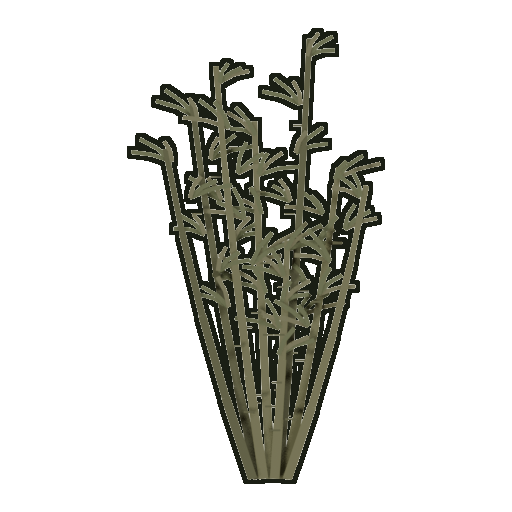
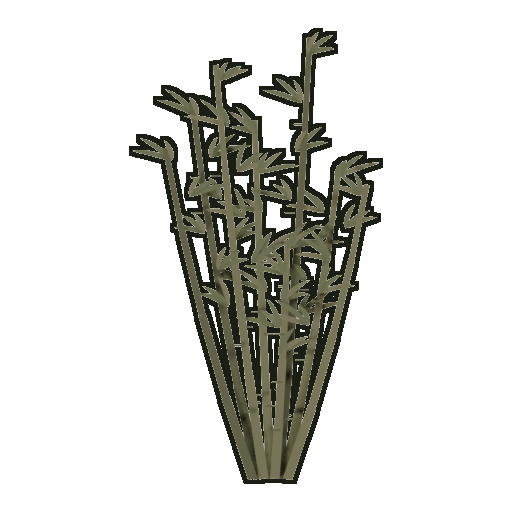
Rebuild the last of the box-built vegetation
Continuing the asset-consistency thread. `_blade` was still laying down `_beam`
chains — rotated boxes with square ends — so every leaf in the game finished on
a flat edge and every bend in one showed a corner. Fixed in ONE place rather
than per plant, because `bush_low`, `fern_a`, `vine_a` and bamboo's leaf sprays
all come through that function, and `_leafpoly` already built exactly the
tapering shape it was approximating with boxes.

Then a correction worth recording, because the first attempt made things worse.
With the silhouettes fixed, the built plants STILL read as a different material,
and the reason was the outline: the tone pass strokes a fixed 4px rim at render
resolution, so on a thin element the rim IS the element. Broad donor fronds
carry an outline; wiry built leaves are consumed by one.

So I widened the leaves — and took them to roughly 1.1:1, which is a circle.
bush_low came out as a pile of grapes and the fern as a pinecone. A leaf wants
about 3:1, so the area has to come from LENGTH, not width. Leaves are now longer
at close to their original width, and read as bush, fern and vine.

Prop memory unchanged at 29 MB, total 118.3 of 130, 9.8 src Mpx.

Changed region(s): [[0.2812, 0.125, 0.75, 0.7188], [0.25, 0.25, 0.3438, 0.3125], [0.5938, 0.0625, 0.6562, 0.125]]

diff --git a/tools/render_props.py b/tools/render_props.py
@@ -215,19 +215,22 @@ def _grassblade(mat, x0, z0, x1, z1, bow=0.0, w=0.026, segs=7, y=0.0, yt=0.016):
 
 
 def _blade(mat, x0, z0, x1, z1, bow=0.0, wmax=0.09, segs=6, y=0.0, yt=0.02):
-    """A leaf with actual blade area: half-width swells to `wmax` near the middle
-    and comes to a point at the tip.
+    """A leaf with actual blade area: half-width swells toward the middle and
+    comes to a point at the tip.
 
-    The first banana plant was six narrow ribbons tracing an outline with nothing
-    between them, which at 60 px read as a croquet hoop. A leaf is a surface.
+    ONE POLYGON, not a chain of boxes. This used to lay down `_beam` segments,
+    and a beam is a rotated box with SQUARE ENDS — so every leaf in the game
+    finished on a little flat edge and every bend in one showed a corner. That is
+    the whole reason the built vegetation read as a different material from the
+    donor palms beside it: the palms are meshes with organic silhouettes and the
+    undergrowth was made of rectangles.
+    
+    Fixed here rather than in each plant, because `bush_low`, `fern_a`, `vine_a`
+    and bamboo's leaf sprays all come through this one function. `_leafpoly`
+    already builds exactly the tapering shape this was approximating.
     """
-    import math as _m
-    pts = _curve(x0, z0, x1, z1, bow, segs)
-    for k in range(segs):
-        tm = (k + 0.5) / segs
-        w = wmax * _m.sin(_m.pi * tm) ** 0.55
-        _beam(mat, pts[k][0], pts[k][1], pts[k + 1][0], pts[k + 1][1],
-              t=max(w, 0.008), y=y, yt=yt)
+    return _leafpoly(mat, x0, z0, x1, z1, bow=bow, wmax=wmax,
+                     segs=max(6, segs + 2), y=y, yt=yt)
 
 
 def _frond(rachis, leaf, x0, z0, x1, z1, bow=0.0, pairs=9, leafL=0.20,
@@ -259,8 +262,16 @@ def _frond(rachis, leaf, x0, z0, x1, z1, bow=0.0, pairs=9, leafL=0.20,
             ang = sgn * 1.02
             lx = ax + (dx * _m.cos(ang) - dz * _m.sin(ang)) * L
             lz = az + (dx * _m.sin(ang) + dz * _m.cos(ang)) * L
-            _blade(leaf, ax, az, lx, lz, bow=sgn * L * 0.22, wmax=L * 0.20,
-                   segs=2, y=y + sgn * 0.006, yt=yt * 0.7)
+            # LONGER, not fatter. The outline pass strokes a fixed 4px rim at
+            # render resolution, so on a thin element the rim IS the element,
+            # which is what still separated the built plants from the donor
+            # meshes after their silhouettes were fixed. The first correction
+            # widened the leaves instead and took them to about 1.1:1, which is
+            # a circle — bush_low came out as a pile of grapes and the fern as a
+            # pinecone. A leaf wants roughly 3:1, so the area has to come from
+            # length.
+            _blade(leaf, ax, az, lx, lz, bow=sgn * L * 0.22, wmax=L * 0.22,
+                   segs=3, y=y + sgn * 0.006, yt=yt * 0.7)
 
 
 def build_watchtower():
@@ -547,14 +558,14 @@ def build_bushlow():
         rad = 0.72 * (0.35 + 0.65 * _r.random() ** 0.6)
         bx = _m.cos(ang) * rad
         bz = 0.10 + _m.sin(ang) * rad * 0.62
-        out = 0.10 + _r.random() * 0.11
+        out = 0.17 + _r.random() * 0.14
         oa = ang + (_r.random() - 0.5) * 1.5
         # pale on top where light lands, deep underneath — the only way a mass
         # of one colour ever reads as round
         m = pale if bz > 0.34 and _r.random() < 0.6 else (deep if bz < 0.22 else mid)
         _blade(m, bx, bz, bx + _m.cos(oa) * out, bz + _m.sin(oa) * out * 0.8,
-               bow=(_r.random() - 0.5) * 0.06, wmax=0.030 + _r.random() * 0.018,
-               segs=2, y=(_r.random() - 0.5) * 0.30, yt=0.012)
+               bow=(_r.random() - 0.5) * 0.06, wmax=0.034 + _r.random() * 0.014,
+               segs=3, y=(_r.random() - 0.5) * 0.30, yt=0.012)
 
 
 def build_fern():
@@ -574,7 +585,7 @@ def build_fern():
         _frond(frond, pale if i % 3 == 0 else leaf,
                0.0, 0.06, sx * reach, top,
                bow=sx * 0.16 if sx else 0.04, pairs=9,
-               leafL=0.15 + 0.03 * _r.random(), y=(i - 3) * 0.055)
+               leafL=0.23 + 0.05 * _r.random(), y=(i - 3) * 0.055)
 
 
 def build_vine():
@@ -604,11 +615,11 @@ def build_vine():
             for sgn in (-1, 1):
                 if _r.random() < 0.32:
                     continue
-                L = 0.10 + _r.random() * 0.07
+                L = 0.17 + _r.random() * 0.10
                 ang = sgn * (0.7 + _r.random() * 0.5) - _m.pi / 2
                 _blade(leaf if (k + i) % 2 else deep, x, z,
                        x + _m.cos(ang) * L, z + _m.sin(ang) * L * 0.7,
-                       bow=sgn * 0.03, wmax=0.026 + _r.random() * 0.012, segs=2,
+                       bow=sgn * 0.03, wmax=0.030 + _r.random() * 0.010, segs=3,
                        y=(i - 2.5) * 0.055 + sgn * 0.02, yt=0.011)
             px, pz = x, z
 
